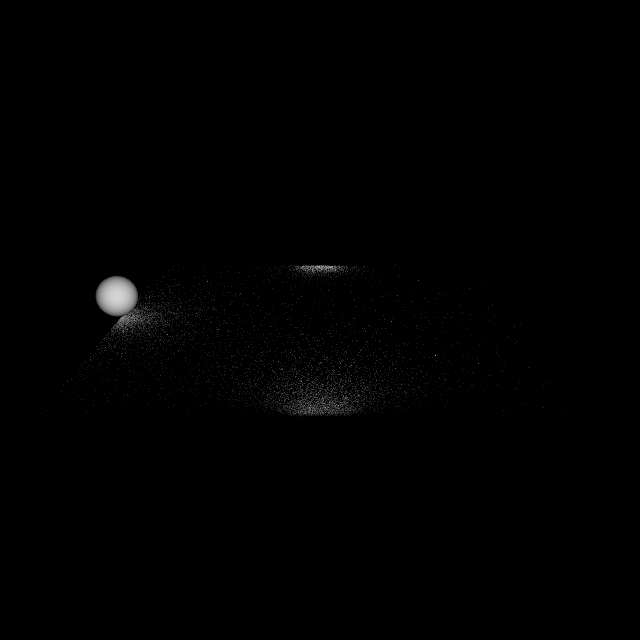
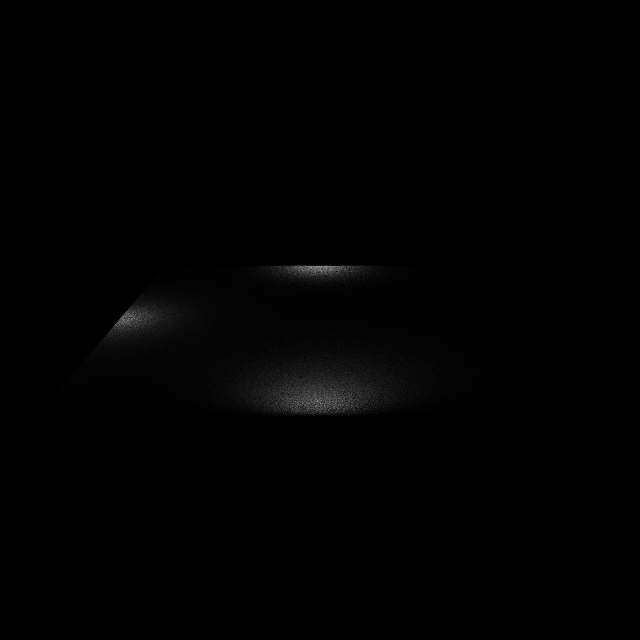
Trying using "shadow rays"

Changed region(s): [[0.375, 0.5625, 0.5938, 0.6562], [0.125, 0.4062, 0.2812, 0.5312], [0.4375, 0.4062, 0.5625, 0.4375]]

diff --git a/src/main.cpp b/src/main.cpp
@@ -89,7 +89,7 @@ void render(const Scene& scene, RenderPlane& r_plane, size_t n_samples){
         // ray bouncing loop
         // with hard-limited depth
         float dimming_coef = 1.0f;
-        for(size_t depth=0; depth<2; ++depth){
+        for(size_t depth=0; depth<1; ++depth){
 
             std::optional<surface_intersection> si = scene.geometry->traceRay(origin, direction);
             std::optional<light_intersection> li   = scene.lighting->traceRayToLight(origin, direction);
@@ -111,9 +111,20 @@ void render(const Scene& scene, RenderPlane& r_plane, size_t n_samples){
 
             // geometry hit
 
-            // DEBUG Draw geometry slightly to understand what is where
-            //r_plane.addRay(x, y, 0.01);
+            // 1 cast ray to light
+            shared_ptr<const Ddf> light_ddf = scene.lighting->distributionInPoint(si->position);
+            vec3 light_direction = light_ddf->trySample();
+            std::optional<surface_intersection> light_si = scene.geometry->traceRay(si->position, light_direction);
+            std::optional<light_intersection> light_li   = scene.lighting->traceRayToLight(si->position, light_direction);
+            if(light_li.has_value()){
+                // if not obscured by geometry
+                if(!light_si.has_value() || length(light_si->position-si->position) > length(light_li->position-si->position)){
+                    float value = dot(light_li->normal, -light_direction)*light_li->surface_power/pow(length(light_li->position-si->position), 2);
+                    r_plane.addRay(x, y, value);
+                }
+            }// if li
 
+            // 2 continue to geometry
             vec3 new_direction = si->sdf->trySample();
 
             if(new_direction == vec3()){
@@ -139,13 +150,13 @@ void render(const Scene& scene, RenderPlane& r_plane, size_t n_samples){
 int main(){
 
     LightingImpl* lighting = new LightingImpl();
-    lighting->lights.push_back(make_shared<const PointLight>(vec3{1.0f, 0.0f, -0.9f}, 25.0f));
+    //lighting->lights.push_back(make_shared<const PointLight>(vec3{1.0f, 0.0f, -0.9f}, 10.0f));
     // TODO Why it has non-proportional power?
-    lighting->lights.push_back(make_shared<const SphereLight>(vec3{-1.0f, 0.0f, -0.88f}, 25.0f, 0.1f));
+    lighting->lights.push_back(make_shared<const SphereLight>(vec3{-1.0f, 0.0f, -0.80f}, 10.0f, 0.1f));
     // radiates down
-    lighting->lights.push_back(make_shared<const AreaLight>(vec3{-0.1f, +1.0f-0.1f, -0.9f}, vec3{0.0f, 0.2f, 0.0f}, vec3{0.2f, 0.0f, 0.0f}, 1.0f));
+    lighting->lights.push_back(make_shared<const AreaLight>(vec3{-0.1f, +1.0f-0.1f, -0.8f}, vec3{0.0f, 0.2f, 0.0f}, vec3{0.2f, 0.0f, 0.0f}, 1.0f));
     // radiates forward
-    lighting->lights.push_back(make_shared<const AreaLight>(vec3{-0.1f, -1.0f, -0.88-0.1f}, vec3{0.0f, 0.0f, 0.2f}, vec3{0.2f, 0.0f, 0.0f}, 1.0f));
+    lighting->lights.push_back(make_shared<const AreaLight>(vec3{-0.1f, -1.0f, -0.80-0.1f}, vec3{0.0f, 0.0f, 0.2f}, vec3{0.2f, 0.0f, 0.0f}, 1.0f));
 
     Geometry* geometry = new Floor();
     vec3 camera_pos(0.0f, -3.0f, 0.1f);
@@ -163,7 +174,7 @@ int main(){
     FILE* fp = fopen("result.pgm", "wb");
     fprintf(fp, "P2\n%lu %lu\n%d\n", r_plane.width, r_plane.height, 255);
 
-    float gamma = 0.8f;
+    float gamma = 1.0f;
     for(size_t y = 0; y<r_plane.height; ++y){
         for(size_t x = 0; x<r_plane.width; ++x){
             fprintf(fp, "%d ", (int)(pow(r_plane.pixels[y*r_plane.width+x]/r_plane.max_value, gamma)*255));

diff --git a/src/lighting.cpp b/src/lighting.cpp
@@ -40,11 +40,9 @@ public:
 };
 
 glm::vec3 LightToDistribution::trySample() const {
-    std::optional<light_intersection> inter = light->sample();
-    if(!inter.has_value())            // if failed
-        return glm::vec3();
-    glm::vec3 dir = glm::normalize(inter->position-origin);
-    float cosinus = dot(inter->normal, -dir);
+    light_intersection inter = light->sample();
+    glm::vec3 dir = glm::normalize(inter.position-origin);
+    float cosinus = light->area == 0.0f ? 1.0f : dot(inter.normal, -dir);
     if(cosinus <= 0.0f)               // if facing back
         return glm::vec3();
     return randf() <= cosinus ? dir : vec3();
@@ -75,13 +73,13 @@ AreaLight::AreaLight(vec3 origin, vec3 x_axis, vec3 y_axis, float power, type_t 
     float full_area = length(cross(x_axis, y_axis));
     area = type==TYPE_DIAMOND ? full_area : full_area/2.0f;
 }
-std::optional<light_intersection> AreaLight::sample() const {
+light_intersection AreaLight::sample() const {
     float u1 = randf();
     float u2 = randf() * (type==TYPE_TRIANLE ? 1.0f-u1 : 1.0f );
     vec3 pos = x_axis*u1 + y_axis*u2;
 
     light_intersection res;
-    res.position = pos;
+    res.position = pos + this->position;
     res.normal = normalize(cross(x_axis, y_axis));
     res.surface_power = this->power/this->area;
 
@@ -142,18 +140,18 @@ optional<light_intersection> SphereLight::traceRay(glm::vec3 origin, glm::vec3 d
     return res;
 }
 
-optional<light_intersection> SphereLight::sample() const {
+light_intersection SphereLight::sample() const {
 
     float u1 = randf()*2.0f - 1.0f;     // -1..+1
     float u2 = randf();
     float alpha = acos(u1);
     float phi = 2*M_PI*u2;
-    float r = sin(alpha);
-    vec3 pos(r*cos(phi), r*sin(phi), u1);
+    float r = radius*sin(alpha);
+    vec3 pos(r*cos(phi), r*sin(phi), radius*u1);
 
     light_intersection res;
-    res.position = pos;
-    res.normal = normalize(res.position - this->position);
+    res.position = pos + this->position;
+    res.normal = normalize(pos);
     res.surface_power = this->power/this->area;
 
     return res;

diff --git a/src/lighting.h b/src/lighting.h
@@ -14,7 +14,7 @@ struct Light {
 };
 
 struct LightImpl: public Light {
-    virtual std::optional<light_intersection> sample() const = 0;
+    virtual light_intersection sample() const = 0;
 };
 
 class AreaLight: public LightImpl {
@@ -29,7 +29,7 @@ private:
 public:
     AreaLight(glm::vec3 origin, glm::vec3 x_axis, glm::vec3 y_axis, float power, type_t type=TYPE_DIAMOND);
     virtual std::optional<light_intersection> traceRay(glm::vec3 origin, glm::vec3 direction) const override;
-    virtual std::optional<light_intersection> sample() const override;
+    virtual light_intersection sample() const override;
 };
 
 class PointLight:public LightImpl {
@@ -44,7 +44,7 @@ public:
         return {};
     }
 
-    virtual std::optional<light_intersection> sample() const override {
+    virtual light_intersection sample() const override {
         light_intersection res;
         res.position = this->position;
         // TODO How to set it? It should discard half of the power somehow...
@@ -63,7 +63,7 @@ struct SphereLight: public LightImpl {
         area = 4.0 * M_PI * radius;
     }
     virtual std::optional<light_intersection> traceRay(glm::vec3 origin, glm::vec3 direction) const override;
-    virtual std::optional<light_intersection> sample() const override;
+    virtual light_intersection sample() const override;
 };
 
 #endif // LIGHTING_H

diff --git a/src/sampling.cpp b/src/sampling.cpp
@@ -116,10 +116,12 @@ vec3 UnionDdf::trySample() const {
         // TODO What's best used here as i?
         for( const std::shared_ptr<const Ddf>& c: components ){
             acc += c->full_theoretical_weight;
-            if(r<acc)
+            if(r<acc){
                 res = c->trySample();
+                break;
+            }
         }// for
-        assert(false && "Loop should always break inside!");
+        assert(r<acc);
     }while(res == vec3());
     return res;
 }
@@ -143,7 +145,7 @@ std::shared_ptr<Ddf> unite(std::shared_ptr<const Ddf> a, std::shared_ptr<const D
             // add b to array a
             std::shared_ptr<UnionDdf> res = std::make_shared<UnionDdf>(*ua);  // copy
             res->components.push_back(b);
-            res->full_theoretical_weight += a->full_theoretical_weight;
+            res->full_theoretical_weight += b->full_theoretical_weight;
             return res;
         }
     }

diff --git a/src/LightingImpl.cpp b/src/LightingImpl.cpp
@@ -2,10 +2,13 @@
 
 #include "sampling.h"
 
+// TODO this should be hidden and not needed
+#include "sampling_detail.h"
+
 using namespace std;
 
 shared_ptr<const Ddf> LightingImpl::distributionInPoint(glm::vec3 pos) const {
-    std::shared_ptr<const Ddf> res;
+    std::shared_ptr<const Ddf> res = make_shared<const UnionDdf>();
     for(shared_ptr<const Light> l: lights){
         res = unite(res, l->lightToPoint(pos));
     }

diff --git a/src/sampling_detail.h b/src/sampling_detail.h
@@ -25,6 +25,9 @@ public:
 // TODO Indicate somehow that trySample should always succeed!
 struct UnionDdf: public Ddf {
     std::vector< std::shared_ptr<const Ddf> > components;
+    UnionDdf(){
+        full_theoretical_weight = 0.0f;
+    }
     // weight eqals to sum of weights
     virtual glm::vec3 trySample() const override;
 };
